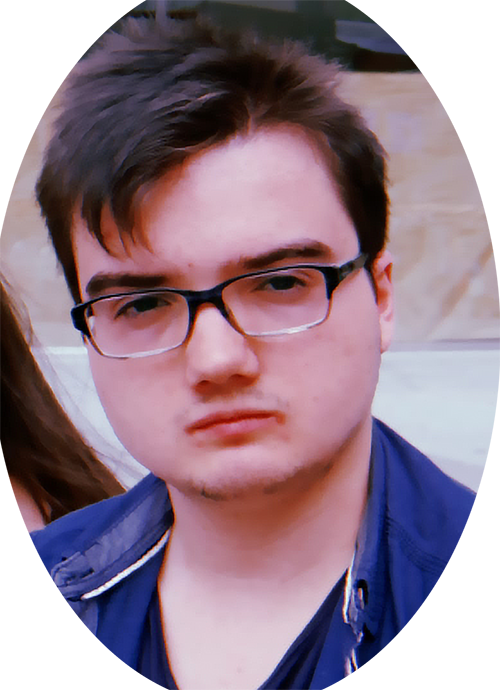
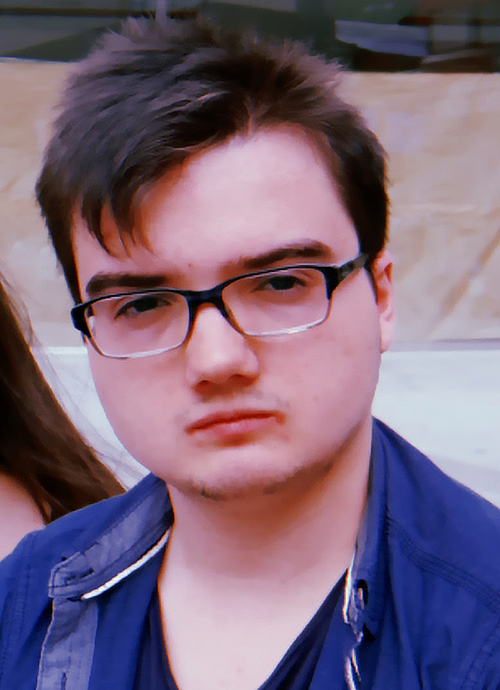
updating img and about (img size)

diff --git a/_includes/About.html b/_includes/About.html
@@ -26,6 +26,6 @@
 
     <br><br><br>
 
-    <img class="img-responsive img-circle my-profile-pic" src="{{ site.data.About.myself_img }}">
+    <img class="img-responsive img-circle my-profile-pic" src="{{ site.data.About.myself_img }} width="150" height="150" ">
 
 </p>
